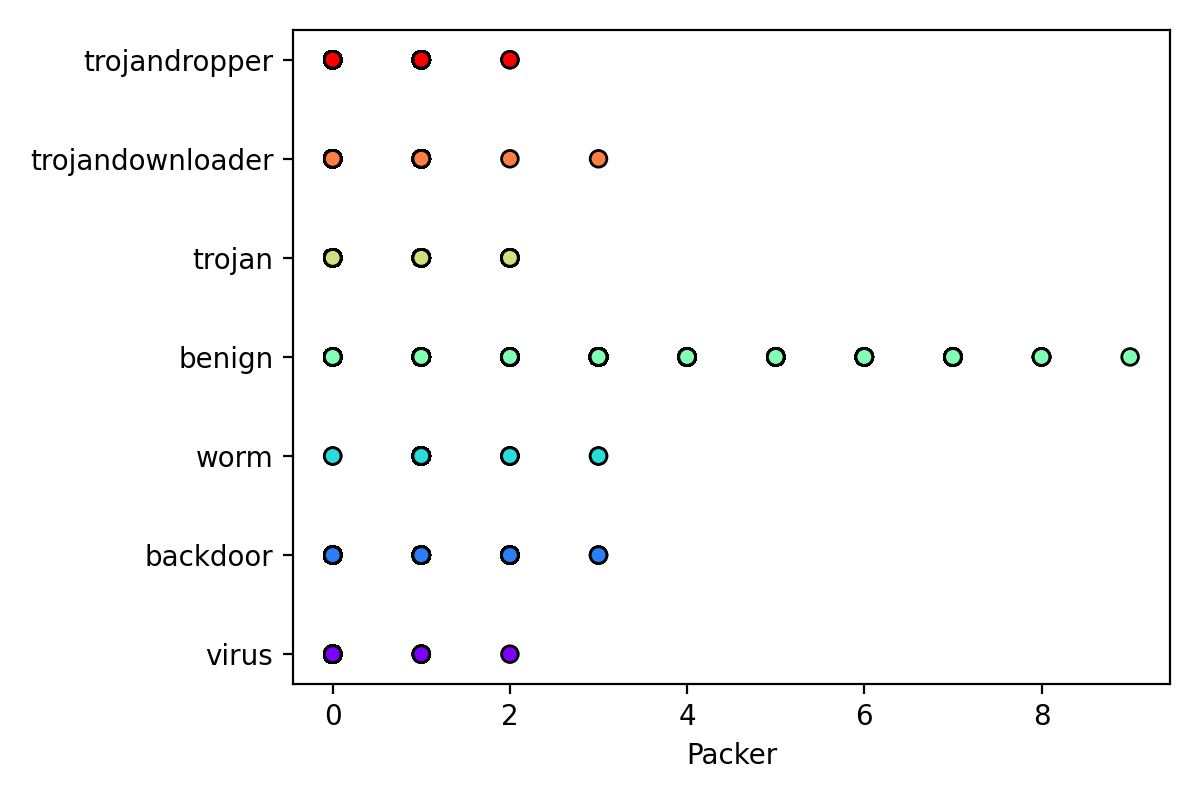
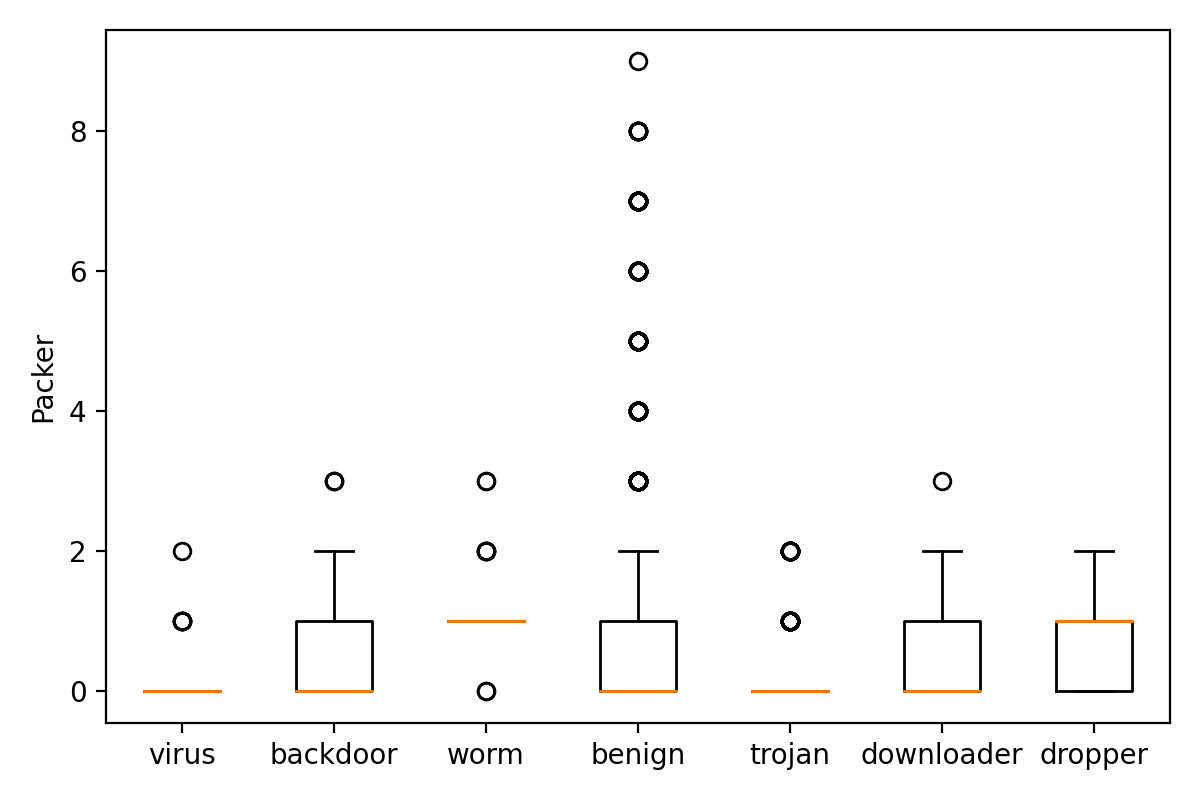
packer boxplot added

diff --git a/README.md b/README.md
@@ -166,6 +166,8 @@ As most malwares are packed their size is generally smaller than a benign file. 
 
 Malware files are usually packed with common packers like UPX, ASPack, etc. They can be identified using the header of the files where the signature of the packer is present.
 
+![](plots/packer.png)
+
 ### UDP Destination Address
 
 Most malwares try to connect to a remote server, either to transfer data or to establish a reverse shell. The number of UDP destination addresses can very effectively differentiate a malware from a benign executable, as malware are likely to make more UDP calls.
